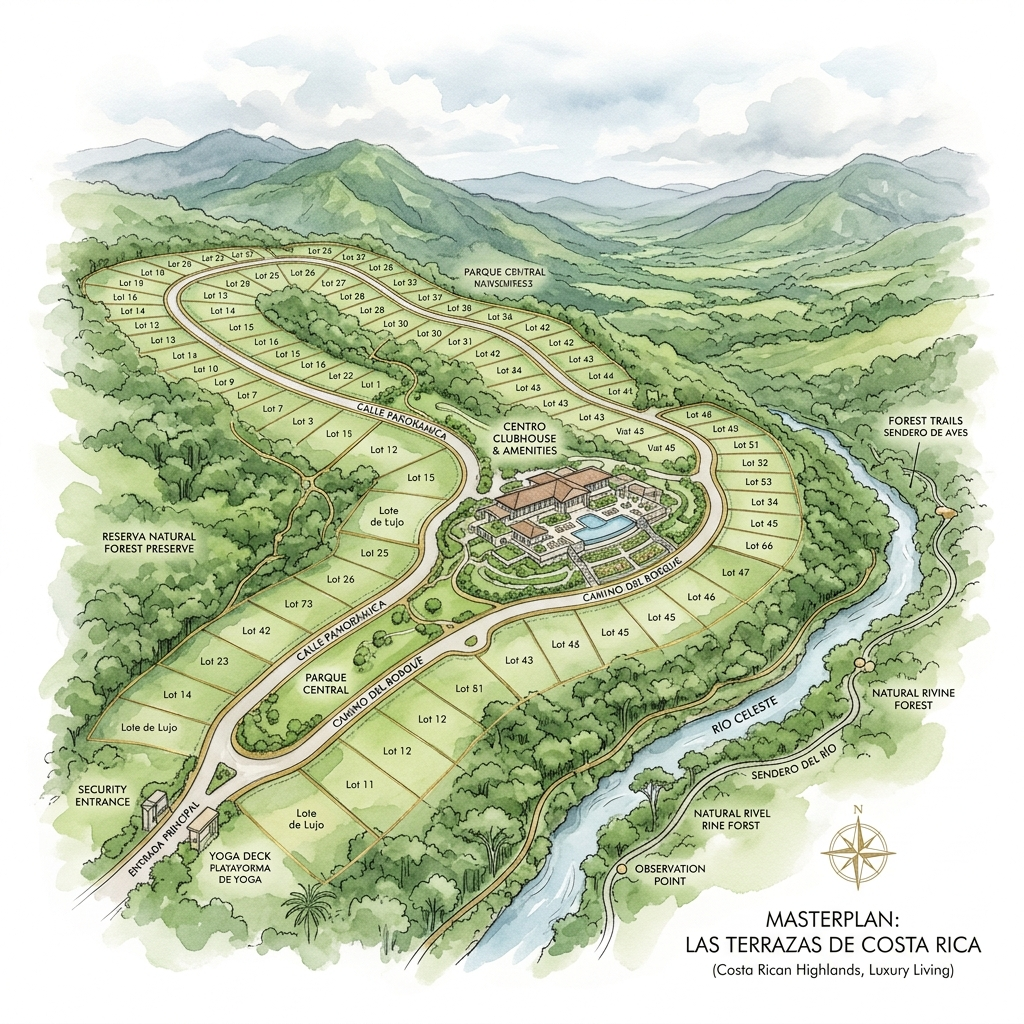
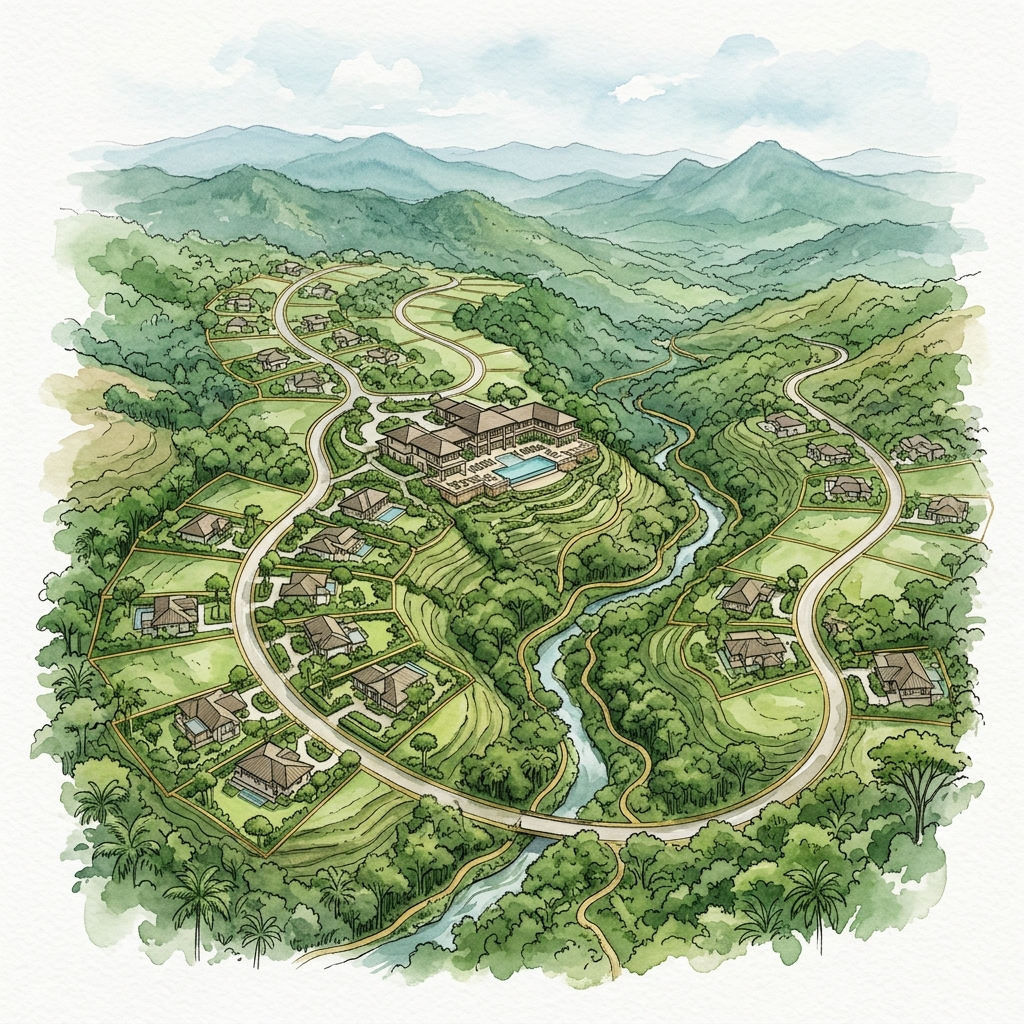
Add RISE bridge transition, clean masterplan (no text), restructure narrative flow

diff --git a/index.html b/index.html
@@ -83,12 +83,12 @@
 
       <div class="property-grid">
         <div class="property-text">
-          <h3 class="property-text-heading reveal">Three years ago, RISE was raw land. Look at it now.</h3>
+          <h3 class="property-text-heading reveal">A finca with everything a developer needs.</h3>
           <p class="section-subtitle reveal" style="max-width:100%;">
-            RISE was undeveloped terrain just like Las Lomas. Today it is a thriving community of full-time families who chose this valley as their home, not their investment. The remaining lots inside RISE are nearly sold out, and as the community matures, more families will seek to be part of what's been built here.
+            164 hectares in Santa Elena, Pérez Zeledón with SETENA D1 environmental clearance already secured. 20 kilometers of river, 20 kilometers of public road frontage, approved wells, and the potential to segregate approximately 150 residential lots.
           </p>
           <p class="section-subtitle reveal" style="max-width:100%; margin-top:16px;">
-            Las Lomas sits directly adjacent with the same elevation, the same views, and the same access to every amenity RISE offers. The school, the airstrip, the co-working hub, Kinkára — it's all next door. A developer here doesn't start from zero. The model is already proven. What's needed is the next chapter.
+            Sitting at 1,000 meters with year-round spring climate, panoramic views of the Talamanca range, and just 15 minutes from San Isidro de El General — a full-service city. At the foot of Chirripó, Costa Rica's highest peak.
           </p>
         </div>
         <div class="property-visual reveal">
@@ -237,13 +237,27 @@
   <!-- PART 2: WHY THIS LOCATION — RISE NEXT DOOR     -->
   <!-- ═══════════════════════════════════════════════ -->
 
-  <!-- ═══ RISE Section ═══ -->
+  <!-- ═══ Bridge: Introducing RISE ═══ -->
+  <section class="section bridge-section">
+    <div class="section-inner" style="text-align:center;">
+      <div class="section-tag reveal">But It's Not Just the Land</div>
+      <h2 class="section-title reveal" style="margin:0 auto;">It's what's already been built<br><em>right next to it.</em></h2>
+      <p class="section-subtitle reveal" style="max-width:640px; margin:20px auto 0;">
+        Directly adjacent to Las Lomas is <strong>RISE</strong> — an intentional community of 400 acres where full-time families have built a life most people only talk about. Three years ago, RISE was undeveloped terrain just like Las Lomas. Today, it has a Waldorf-inspired school, a private airstrip, a luxury retreat center, and a fiber-optic co-working hub. The lots are nearly sold out.
+      </p>
+      <p class="section-subtitle reveal" style="max-width:640px; margin:16px auto 0;">
+        What follows is what a developer of Las Lomas gets access to — without building any of it.
+      </p>
+    </div>
+  </section>
+
+  <!-- ═══ RISE Ecosystem ═══ -->
   <section class="section ecosystem" id="rise">
     <div class="section-inner">
-      <div class="section-tag reveal">What's Next Door · RISE</div>
-      <h2 class="section-title reveal">Why this location<br>changes <em>everything.</em></h2>
+      <div class="section-tag reveal">RISE · Next Door</div>
+      <h2 class="section-title reveal">The infrastructure is already built.</h2>
       <p class="section-subtitle reveal">
-        RISE is an intentional community directly adjacent to Las Lomas. Built over years with millions in investment, its infrastructure serves as a built-in amenity base for any future development on this land. A developer here doesn't need to build demand or infrastructure from zero. It's all already next door.
+        Every amenity below is operational today, directly adjacent to Las Lomas. A future developer inherits all of it.
       </p>
 
       <div class="eco-cards">

diff --git a/styles.css b/styles.css
@@ -249,6 +249,15 @@ body {
 .eco-card-title { font-family:'Cormorant Garamond',serif; font-size:1.25rem; font-weight:600; color:var(--text-heading); margin-bottom:8px; }
 .eco-card-desc { color:var(--text-body); font-size:.88rem; line-height:1.6; font-weight:300; }
 
+/* ── Bridge ── */
+.bridge-section {
+  background:var(--warm-gray-900); color:var(--white);
+}
+.bridge-section .section-tag { color:var(--gold-light); border-color:rgba(196,163,90,.3); }
+.bridge-section .section-title { color:var(--white); }
+.bridge-section .section-subtitle { color:rgba(255,255,255,.65); }
+.bridge-section strong { color:var(--gold-light); font-weight:600; }
+
 /* ── Gallery / Carousel ── */
 .gallery-section { background:var(--cream); overflow:hidden; padding-top:var(--section-padding); padding-bottom:var(--section-padding); }
 .carousel {
